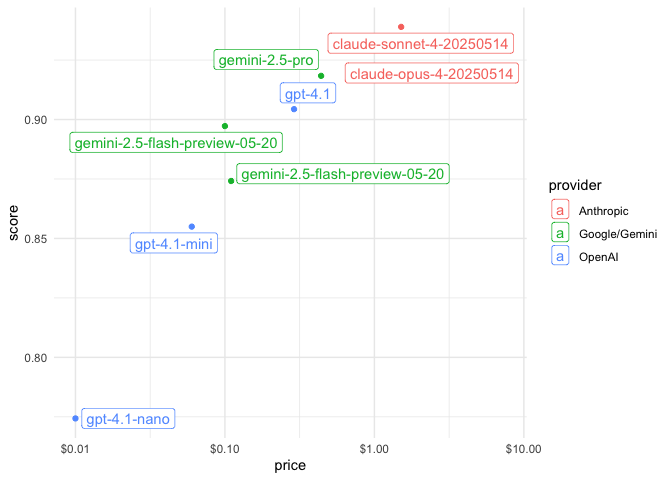
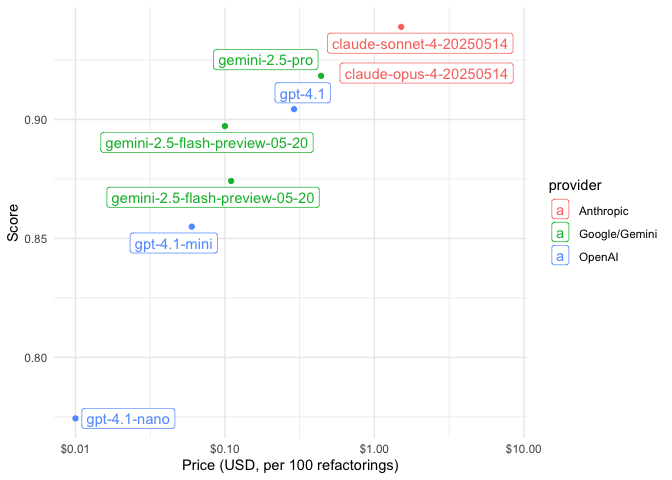
label axes

diff --git a/README.md b/README.md
@@ -77,7 +77,8 @@ chores |>
   geom_point() +
   geom_label_repel() +
   scale_x_log10(labels = scales::dollar_format()) +
-  theme_minimal()
+  theme_minimal() +
+  labs(x = "Price (USD, per 100 refactorings)", y = "Score")
 ```
 
 <img src="man/figures/README-chores-plot-1.png" width="100%" />
